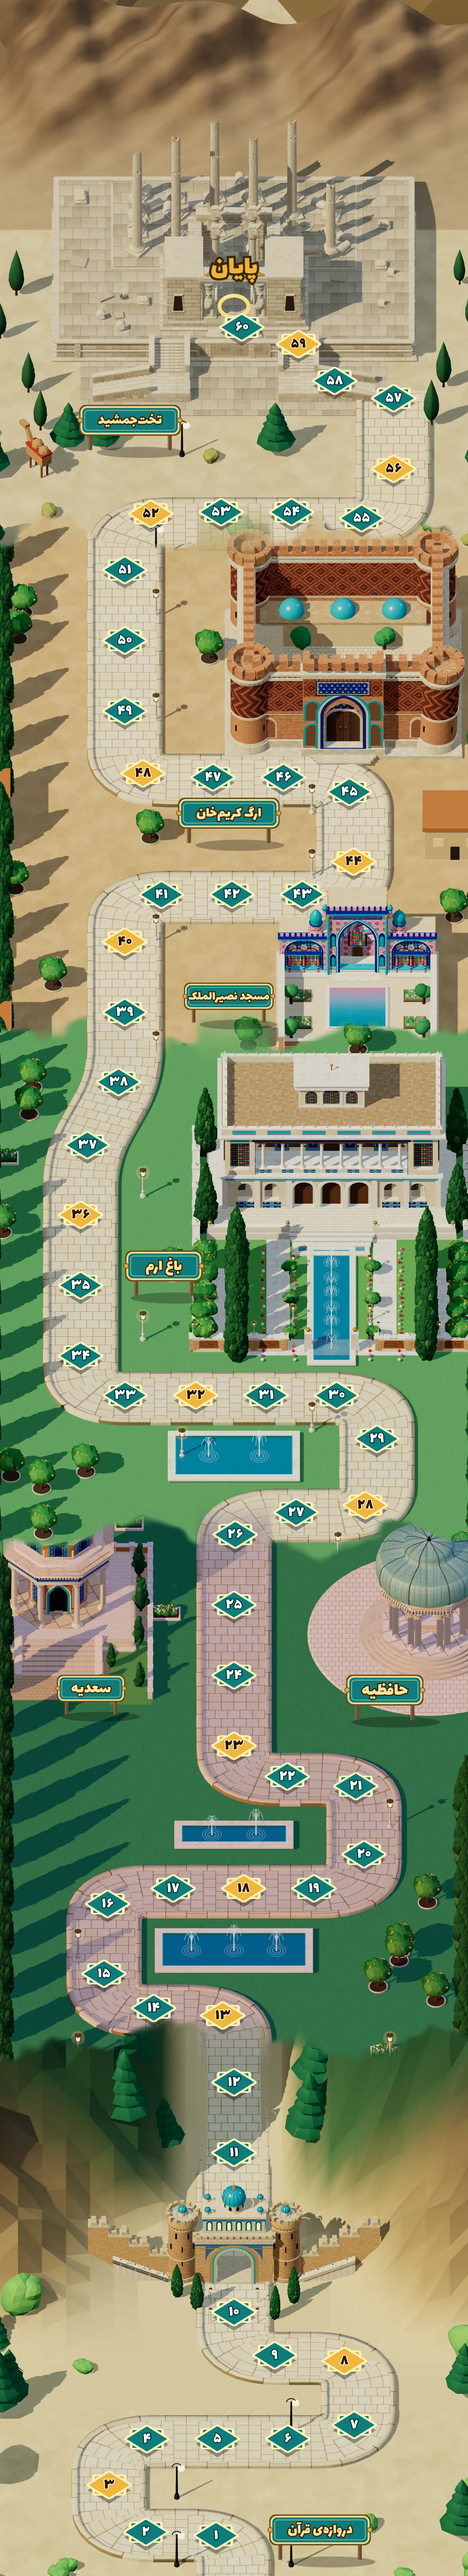
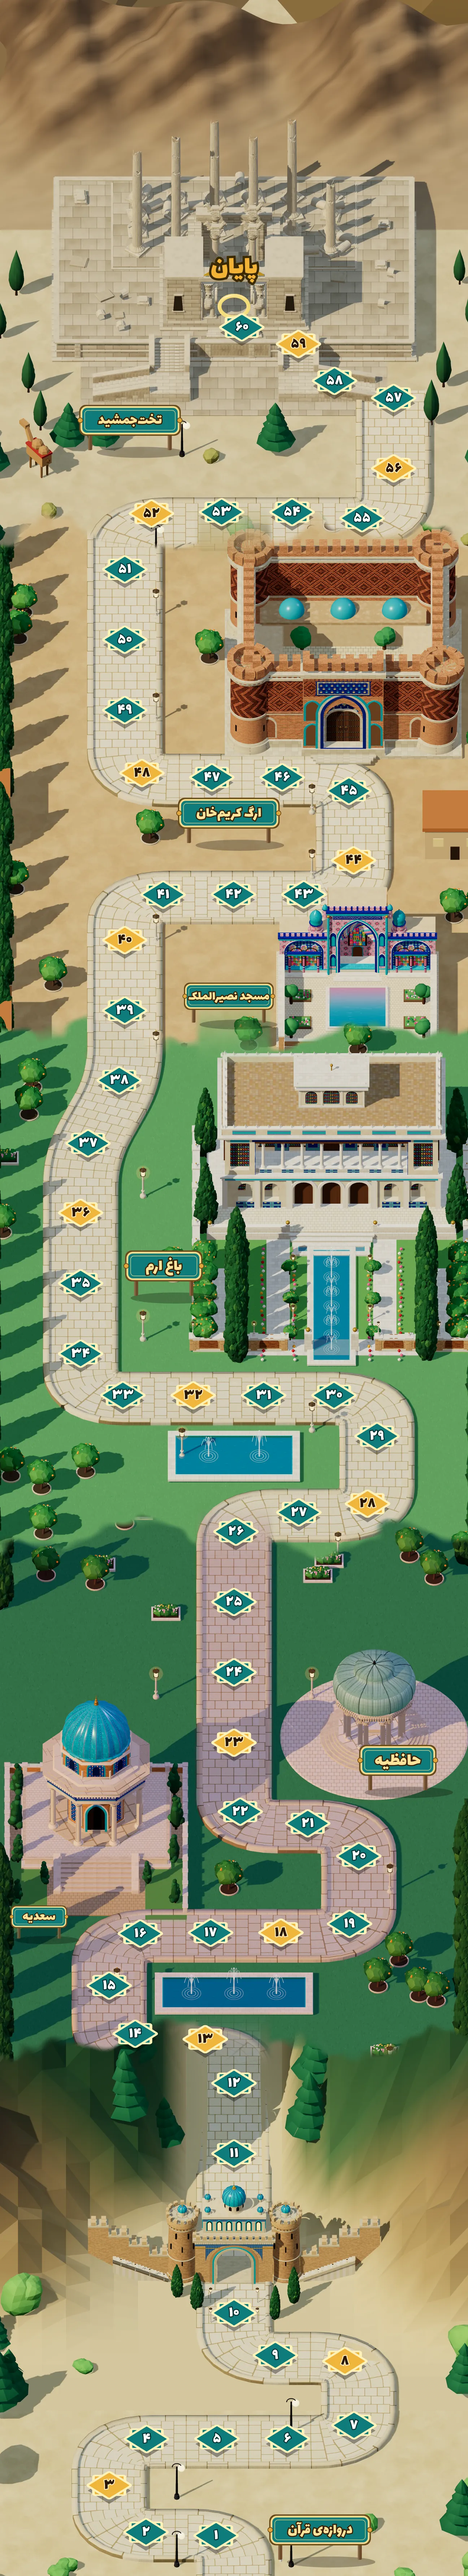
Shiraz board: Hafezieh and Saadieh fully in view
Claude-Session: https://claude.ai/code/session_01Rjy4C5wyMsBPrp6gT8ag68

diff --git a/js/maps.js b/js/maps.js
@@ -14,8 +14,8 @@ const MAPS = [
     cities: ['دروازهی قرآن','حافظیه','باغ ارم','ارگ کریمخان','تختجمشید'],
     finish: 'تختجمشید', goalText: 'به تختجمشید رسیدی! کورش و داریوش منتظرتاند',
     image: 'assets/map-shiraz.webp', lite: 'assets/map-shiraz-lite.webp', preview: 'assets/map-shiraz-prev.webp', ratio: 2160 / 11880,
-    coords: [[46.16, 98.56], [31.171, 98.428], [23.333, 96.602], [31.381, 94.813], [46.435, 94.803], [61.49, 94.803], [75.701, 94.266], [73.576, 91.784], [58.684, 91.566], [50.0, 89.888], [50.0, 83.7], [50.0, 80.963], [47.598, 78.376], [32.826, 78.086], [22.222, 76.752], [22.99, 74.04], [37.001, 73.44], [52.056, 73.44], [67.11, 73.44], [77.778, 72.117], [76.014, 69.47], [61.396, 69.096], [50.0, 67.906], [50.0, 65.169], [50.0, 62.432], [50.279, 59.7], [63.269, 58.844], [78.061, 58.566], [80.556, 55.988], [71.904, 54.304], [56.85, 54.298], [41.795, 54.298], [26.74, 54.298], [17.222, 52.767], [17.222, 50.03], [17.222, 47.292], [18.653, 44.586], [25.338, 42.138], [26.667, 39.428], [26.667, 36.691], [34.505, 34.865], [49.559, 34.854], [64.613, 34.854], [75.556, 33.581], [74.68, 30.874], [60.56, 30.308], [45.505, 30.308], [30.545, 30.156], [26.667, 27.734], [26.667, 24.997], [26.667, 22.26], [32.215, 20.074], [47.248, 20.01], [62.302, 20.01], [77.266, 20.246], [84.1, 18.326], [84.1, 15.589], [71.497, 14.913], [63.778, 13.488], [51.666, 12.841]],
-    cellCity: [0, 0, 0, 0, 0, 0, 0, 0, 0, 0, 0, 0, 1, 1, 1, 1, 1, 1, 1, 1, 1, 1, 1, 1, 1, 2, 2, 2, 2, 2, 2, 2, 2, 2, 2, 2, 2, 2, 3, 3, 3, 3, 3, 3, 3, 3, 3, 3, 3, 3, 3, 4, 4, 4, 4, 4, 4, 4, 4, 4],
+    coords: [[46.16, 98.56], [31.189, 98.428], [23.333, 96.609], [31.327, 94.814], [46.363, 94.803], [61.399, 94.803], [75.647, 94.283], [73.692, 91.793], [58.829, 91.567], [50.0, 89.917], [50.0, 83.733], [50.0, 80.999], [43.871, 79.295], [28.881, 79.08], [23.333, 77.21], [29.972, 75.191], [45.0, 75.157], [60.036, 75.157], [74.702, 74.814], [76.667, 72.188], [65.747, 70.915], [51.339, 70.459], [50.0, 67.785], [50.0, 65.051], [50.0, 62.317], [50.406, 59.591], [63.865, 58.844], [78.541, 58.507], [80.556, 55.886], [71.362, 54.3], [56.326, 54.298], [41.289, 54.298], [26.253, 54.295], [17.222, 52.681], [17.222, 49.948], [17.222, 47.214], [18.798, 44.515], [25.465, 42.07], [26.667, 39.359], [26.667, 36.625], [34.848, 34.863], [49.884, 34.854], [64.92, 34.854], [75.556, 33.529], [74.545, 30.832], [60.307, 30.308], [45.271, 30.308], [30.346, 30.141], [26.667, 27.698], [26.667, 24.964], [26.667, 22.23], [32.355, 20.068], [47.374, 20.01], [62.411, 20.01], [77.356, 20.247], [84.1, 18.313], [84.1, 15.579], [71.461, 14.912], [63.778, 13.485], [51.666, 12.841]],
+    cellCity: [0, 0, 0, 0, 0, 0, 0, 0, 0, 0, 0, 0, 0, 1, 1, 1, 1, 1, 1, 1, 1, 1, 1, 1, 1, 2, 2, 2, 2, 2, 2, 2, 2, 2, 2, 2, 2, 2, 3, 3, 3, 3, 3, 3, 3, 3, 3, 3, 3, 3, 3, 4, 4, 4, 4, 4, 4, 4, 4, 4],
     fx: false, price: 150
   }
 ];

diff --git a/sw.js b/sw.js
@@ -1,5 +1,5 @@
 // نخ بده — offline support
-const CACHE = 'nakh-bede-v71';
+const CACHE = 'nakh-bede-v72';
 // The board image is large; it is fetched after install, in the background, so it
 // never competes with the first screen. (It is also cached the first time it is used.)
 // The board image is fetched by the page itself (it picks the full or the lite size)
